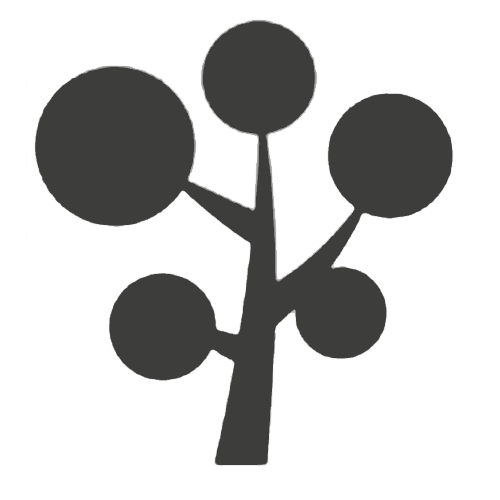
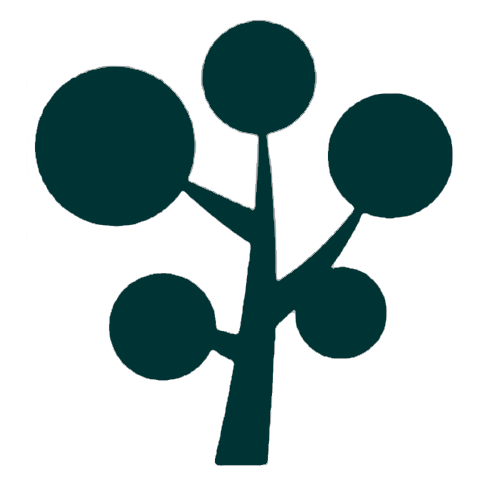
Made changes home page style to green

Changed region(s): [[0.06, 0.03, 0.93, 0.93]]

diff --git a/frontend/src/js/pages/Home.js b/frontend/src/js/pages/Home.js
@@ -32,15 +32,17 @@ export default class Home extends React.Component {
 			<div id="home-container">
 			  <div id ="first-bar">
 			    <img id="image" src={Logo}/>
-			    <p>Cobbie is the most popular brainstorming application that
-			    allows better productivity & progress in team project</p>
+			    <p>The most popular brainstorming application.</p>
 			    <button type="button">Get Started</button>
 			  </div>
+				<div id="inbetw-bar">
+					<h1> Productivity & Progress </h1>
+					<p> In the scenario where brainstorming becomes complex, Cobbie is there to help to sort it out. Targeted for project teams, Cobbie consolidates ideas to help streamline the brainstorming process. </p>
+				</div>
 			  <div id ="sec-bar">
-			    <h1> Targeted at project teams.</h1>
-			    <h2> Built for corporate and students alike. </h2>
+					<h1> Visualise your ideas. </h1>
 			    <table>
-			      <tr>
+			      <tr id="pic-text">
 			        <th>Create a Team</th>
 			        <th>Select a Deadline</th>
 			        <th>Start Adding Ideas</th>
@@ -48,11 +50,11 @@ export default class Home extends React.Component {
 			        <th>View the Tree</th>
 			      </tr>
 			      <tr>
-			        <th><img id="img" src={Logo1} /></th>
-			        <th><img id="img" src={Logo2} /></th>
-			        <th><img id="img" src={Logo3} /></th>
-			        <th><img id="img" src={Logo4} /></th>
-			        <th><img id="img" src={Logo5} /></th>
+			        <th><img class="img" src={Logo1} /></th>
+			        <th><img class="img-two" src={Logo2} /></th>
+			        <th><img class="img-two" src={Logo3} /></th>
+			        <th><img class="img-two" src={Logo4} /></th>
+			        <th><img class="img" src={Logo5} /></th>
 			      </tr>
 					</table>
 				</div>

diff --git a/frontend/src/bootstrap/css/theme.css b/frontend/src/bootstrap/css/theme.css
@@ -7062,14 +7062,113 @@ label {
   border-width: 0 1px 4px 1px;
 }
 
+*{
+  font-family: sans-serif;
+}
+
+#navbar{
+  font-size: 17px;
+  color: #000;
+}
+
 #first-bar {
   text-align: center;
+  background-color: #003333;
+  height: 650px;
+  color: white;
+  padding-top: 80px;
+}
+
+#first-bar p{
+  font-size: 40px;
+  text-transform: uppercase;
 }
 
 #image {
-    width: 30px;
+    margin-top: 40px;
+    margin-bottom: 10px;
+    width: 300px;
 }
 
-#img {
-  width: 10px;
+.img, .img-two {
+  width: 200px;
+}
+
+
+#inbetw-bar {
+  text-align:center;
+  display: inline-block;
+  color: #003333;
+  height: 400px;
+  padding-top: 100px;
+  max-height: 400px;
+}
+
+#inbetw-bar h1{
+  float: left;
+  font-size: 64px;
+  width: 40%;
+  display: inline-block;
+  max-width: 600px;
+  margin: 0% 5%;
+  max-height: 400px;
+}
+
+#inbetw-bar p{
+  float: right;
+  font-size: 25px;
+  width: 40%;
+  display: inline-block;
+  text-align: justify;
+  max-width: 600px;
+  margin: 0% 5%;
+  max-height: 400px;
+  overflow: hidden;
+}
+
+@media only screen and (max-width: 700px) {
+  #inbetw-bar p {
+    display: none;
+  }
+}
+
+
+
+#sec-bar{
+  text-align: center;
+  background-color: #669999;
+  color: white;
+  height: 500px;
+  padding-top: 80px;
+}
+
+#sec-bar h1{
+  font-size: 52px;
+  text-align: center;
+  background-color: #669999;
+  color: white;
+  margin-bottom: 50px;
+}
+
+
+#sec-bar table {
+  font-size: 23px;
+  font-weight: normal;
+  font-family:sans-serif;
+  text-align: center;
+  border-width: thick;
+  border-color: black;
+  width: 100%;
+  margin: 0px 30px;
+}
+
+#pic-text {
+  font-size: 23px;
+  font-weight: 100;
+  font-family: sans-serif;
+}
+
+#footer{
+  float:bottom;
+  clear:both;
 }

diff --git a/frontend/src/js/components/Footer.js b/frontend/src/js/components/Footer.js
@@ -4,15 +4,10 @@ import { connect } from 'react-redux';
 class Footer extends React.Component {
 	render() {
 		const { isLoggedIn } = this.props;
-		const footerStyle = {
-			  position: 'absolute',
-			  bottom: '0',
-			  width: '100%',
-		}
 
 		return (
 			<div>
-				<footer style={footerStyle}>
+				<footer id="footer">
 					{
 						isLoggedIn ? (
 							<div class="container-fluid">
@@ -20,16 +15,16 @@ class Footer extends React.Component {
 									<div class="col-xs-9 col-sm-10 col-sm-offset-2 col-xs-offset-3">
 										<hr/>
 			        					<p>&copy; 2017 Cobbie, Inc.</p>
-			        				</div>		
+			        				</div>
 		        				</div>
-		        			</div>							
+		        			</div>
 						) : (
 							<div class="container">
 								<div class="row">
 										<hr/>
-			        					<p>&copy; 2017 Cobbie, Inc.</p>	
+			        					<p>&copy; 2017 Cobbie, Inc.</p>
 		        				</div>
-		        			</div>	
+		        			</div>
 						)
 					}
       			</footer>

diff --git a/frontend/src/js/components/Layout.js b/frontend/src/js/components/Layout.js
@@ -8,13 +8,13 @@ export default class Layout extends React.Component {
 
 	render() {
 		const containerStyle = {
-			  padding: '80px 15px',
+			  padding: '80px 0px',
 		}
 		return (
 			<MuiThemeProvider>
 				<div>
 					<Navbar/>
-								
+
 						<div style={containerStyle}>
 							{this.props.children}
 						</div>
